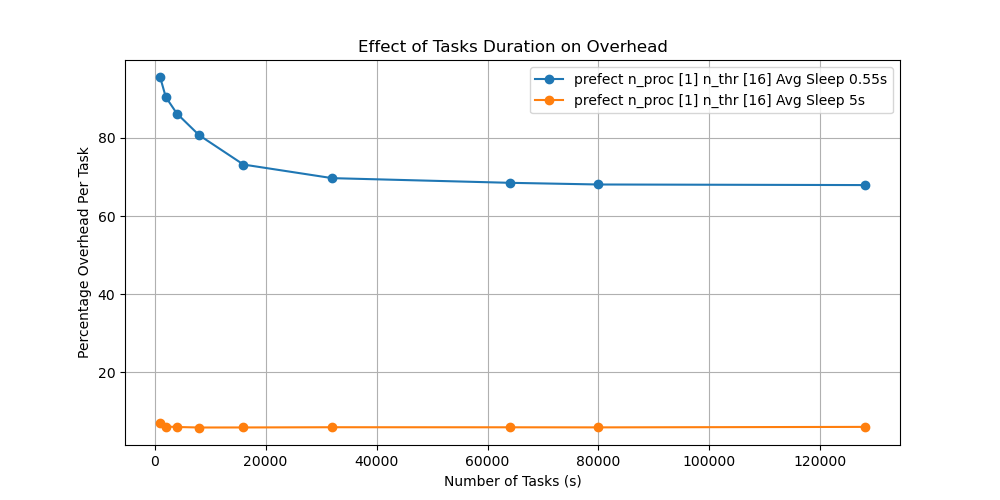
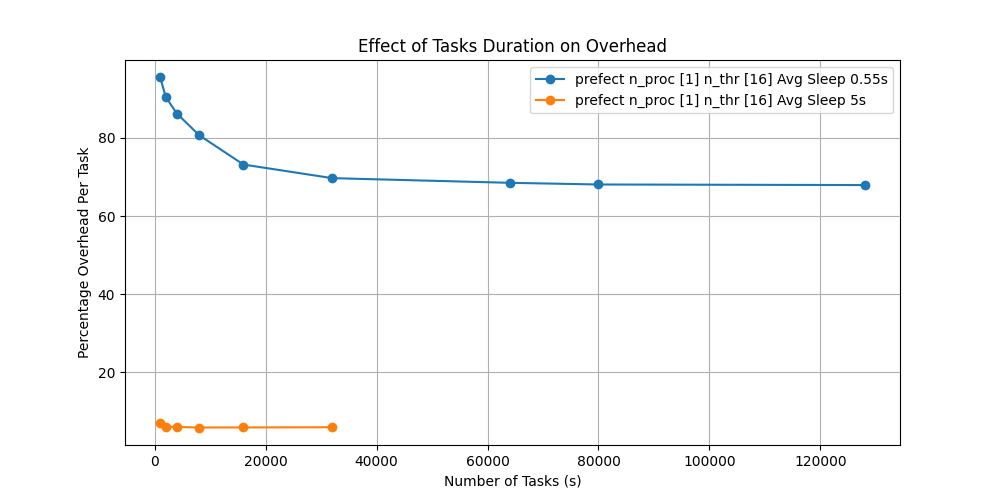
Update plost with latest benchmark runs.

diff --git a/benchmarking/plot_results_benchmark.py b/benchmarking/plot_results_benchmark.py
@@ -86,15 +86,64 @@ def plot_overhead_as_function_of_return_size(csv_file, title, run_ids, labels, s
 
 
 
+
+def plot_overhead_as_function_of_n_tasks_v2(csv_file, title, run_ids, labels, save_as, skiprows=[]):
+    if skiprows:
+        exclude_headerrow = ''
+        if 0 in skiprows:
+            skiprows = skiprows.remove(0)
+            exclude_headerrow = ' row 0 (header) is excluded.'
+        print(f'Skipping rows: {skiprows} {exclude_headerrow}')
+    df_all = pd.read_csv(csv_file, skiprows = skiprows)
+    print(df_all)
+    
+    
+    fig, ax = plt.subplots(figsize=(10, 5))
+    for i, run_id in enumerate(run_ids):
+        print(f"Processing run_id: {run_id}")
+        df = df_all[df_all["run_id"]==run_id]
+        print(df['t_max_sleep'])
+        df = df[df['t_max_sleep'] == 4.0]
+        workflow_orchestration_framework = np.unique(df["workflow_orchestration_framework"])
+    
+        print(f"Workflow orchestration framework: {workflow_orchestration_framework}")
+        # if workflow_orchestration_framework == "prefect":
+        #     df = df[df['return_size_mb'] == 10.0]
+        if workflow_orchestration_framework == "prefect":
+            df = df[df['return_size_mb'] == 0.1]
+        print(f'{len(df)} rows selected from {csv_file}')
+        
+
+        n_processes = np.unique(df["n_processes"])
+        n_threads_per_process = np.unique(df["n_threads_per_process"])
+        label = workflow_orchestration_framework + " n_proc " + str(n_processes) + " n_thr " + str(n_threads_per_process) + " " + labels[i]
+    
+        ax.plot(
+            df["n_tasks"],
+            df["overhead_percentage"],
+            label=label,
+            marker="o",
+        )
+        ax.set_xlabel("Number of Tasks (s)")
+        ax.set_ylabel("Percentage Overhead Per Task")
+        ax.legend()
+    
+    plt.title(title)
+    plt.grid()
+    plt.savefig(save_as)
+
+
 if __name__ == "__main__":
 
     #Plot increasing task time
-    plot_overhead_as_function_of_n_tasks("results/benchmark_return_results.csv",title="Effect of Tasks Duration on Overhead",run_ids=["jsteeb_2025-05-07_14-46-13","jsteeb_2025-06-10_05-27-44"],labels=["Avg Sleep 0.55s","Avg Sleep 5s"],save_as="plots/fig1_task_duration_overhead.png")
+    #plot_overhead_as_function_of_n_tasks("results/benchmark_return_results.csv",title="Effect of Tasks Duration on Overhead",run_ids=["jsteeb_2025-05-07_14-46-13","jsteeb_2025-06-10_05-27-44"],labels=["Avg Sleep 0.55s","Avg Sleep 5s"],save_as="plots/fig1_task_duration_overhead.png")
     
     #Return Size
-    plot_overhead_as_function_of_return_size("results/benchmark_return_results.csv",title="Effect of Return Size on Overhead",run_ids=["jsteeb_2025-05-17_10-31-01"],labels=[""],save_as="plots/fig2_return_size_overhead.png")
+    #plot_overhead_as_function_of_return_size("results/benchmark_return_results.csv",title="Effect of Return Size on Overhead",run_ids=["jsteeb_2025-05-17_10-31-01"],labels=[""],save_as="plots/fig2_return_size_overhead.png")
 
     #Plot stasks increasing
-    plot_overhead_as_function_of_n_tasks("results/benchmark_return_results.csv",title="Overhead as a Function of the Number of Tasks (T_avg 5s)",run_ids=["jsteeb_2025-06-07_14-06-55","jsteeb_2025-06-06_08-44-43","jsteeb_2025-06-10_05-27-44"],labels=["","",""],save_as="plots/fig3_num_tasks_overhead.png")
+    #plot_overhead_as_function_of_n_tasks("results/benchmark_return_results.csv",title="Overhead as a Function of the Number of Tasks (T_avg 5s)",run_ids=["jsteeb_2025-06-07_14-06-55","jsteeb_2025-06-06_08-44-43","jsteeb_2025-06-10_05-27-44"],labels=["","",""],save_as="plots/fig3_num_tasks_overhead.png")
+    
+    plot_overhead_as_function_of_n_tasks_v2("results/benchmark_return_results.csv",title="Overhead as a Function of the Number of Tasks (T_avg 5s)",run_ids=["jsteeb_2025-06-07_14-06-55","jsteeb_2025-06-06_08-44-43","jsteeb_2025-06-20_09-37-19","jsteeb_2025-07-08_14-25-52"],labels=["","","",""],save_as="plots/fig6_num_tasks_overhead.png")
     
 
